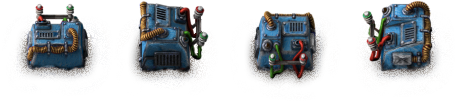
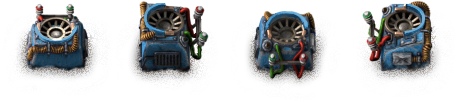
graphics update

diff --git a/README.md b/README.md
@@ -19,7 +19,7 @@
 | 实体 | 待建的实体虚影 | 被标记拆除的实体 |
 | 地格 | 待铺的地形虚影 | 被标记拆除的地格 |
 | 升级 | 升级后的目标实体 | 升级替换下的原实体 |
-| 物品 | 请求送入的物品 | 被拆除实体内部已有的物品（含插件）、回收储物格请求（移除物品）、环境实体（树/鱼/岩石等）的回收产物、落地物品 |
+| 物品 | 请求送入的物品 | 被拆除实体内部已有的物品、回收储物格请求、环境实体（树/鱼/岩石等）的回收产物、落地物品 |
 
 > **关于「物品」的说明**：这里的【物品】指的是在**实体上的储物格**进行**幽灵操作**（远程视图里直接设置）时产生的物品请求，由**建设机器人**响应。它**不是**指物流机器人响应的物品物流请求。
 
@@ -62,7 +62,7 @@
 - **物流网络模式**下，读取器自身必须位于某个无人机平台的**供应区域**（橙色区域）内，才能被判定为「属于某个物流网络」。
 - 属于**中立/敌方阵营**的目标（树、岩石、落地物品、虫巢等）本身不会有物流网络，它们按位置计入覆盖到它们的玩家阵营物流网络；而玩家阵营的实体只按自己阵营的建设区域计算。
 - 移动实体（如：坦克、蜘蛛机甲）上的物品请求同样会被计入。
-- 若某个容器实体（如箱子）被标记拆除，它**内部已有的物品和插件**会归类到「物品」类别记为回收，同时其上的临时物品请求会作废（不重复计数）。
+- 若某个容器实体（如箱子）被标记拆除，它**内部已有的物品**会归类到「物品」类别记为回收。
 
 ---
 
@@ -72,12 +72,12 @@
 
 ## 结构总览
 
-- **data.lua** —— 声明新实体。基于原版恒压器（constant-combinator）原型复制出一个同名自定义实体，并把它内部的贴图引用重定向到本 Mod 自带的图形资源（不依赖 `__base__`），同时注册对应的物品、配方和科技。
+- **data.lua** —— 声明新实体。基于原版恒压器（constant-combinator）原型复制出一个同名自定义实体，并把它内部的贴图引用重定向到本 Mod 自带的图形资源（不依赖 `__base__`）；同时复制出自己的一份残骸（corpse）原型 `ghost-reader-remnants` 并用 `corpse` 字段绑定到实体上，最后注册对应的物品、配方和科技。
 - **data-updates.lua** —— 为读取「物品请求」做铺垫。它给原版的 item-request-proxy 原型挂上一个创建效果，使该实体每次被创建时都能向脚本发送一个事件。
 - **control.lua** —— **入口文件**：按依赖顺序 require `dop2/` 下的各模块，注入跨模块依赖，最后调用 `events.register()` 完成事件注册。
 - **dop2/** —— 全部运行时逻辑，按职责拆成 14 个模块（见「文件结构」）。
 
-> `dop/` 目录是重构前的旧实现，仅作备份保留，当前不参与运行；想切回旧版把 `control_dop.lua` 的内容复制进 `control.lua` 即可。
+> `dop/` 目录是重构前的旧实现，仅作备份保留，当前不参与运行。
 
 ## 模块划分（dop2/）
 
@@ -167,13 +167,15 @@ Mod 优先事件驱动，而非每帧轮询：
 - 快照有每帧预算与活跃/不活跃世代，稳态开销与快照总数无关。
 - 面板刷新有指纹门，信号不变时不产生 GUI 元素增删。
 
-## 两份实现容易踩的坑（记录备查）
+## 实现容易踩的坑（记录备查）
 
 - **不要把原型对象当表键**：`prototypes.item["iron-plate"]` 每次调用返回的是**不同 userdata**（`a == b` 为真是靠引擎的 `__eq`，而 Lua 表键只看原始身份、不走 `__eq`），用它当键会让同一个物品永远合不到一起（多堆同类物品只剩一堆的数量）。所以计数表/计数项的键一律用**名字字符串**，`counter.lua` 收到非字符串会直接报错，`ensure_quality` 只接受品质名。
 - **2.x 的对象方法是从对象上取出的绑定闭包**：所以全项目写 `parent.add{...}`、`bp.set_stack{...}`（点号，不带 self）。用 `pcall(obj.method, obj, {...})` 多传一个 self 会报 `Expected 1 argument but 2 were given`。
 - **`require` 只能在解析 control.lua 期间调用**，运行期调用会报 `Require can't be used outside of control.lua parsing`。`meta` 与 `snapshot` 互相依赖，因此由入口在两者加载完后调用 `meta.inject_snapshot(snapshot)` 注入，而不是在函数里延迟 require。
 - **`LuaLogisticSection.filters_count` 是「当前已有多少个过滤器」，不是插槽容量**（清空后恒为 0）；常量箱 section 的插槽上限是 1000，越界 `set_slot` 会直接报错。
 - **bplib 事件里的坐标是它内部的数组形式 `{x, y}`**（类型注解写的是 `MapPosition`，容易踩），两种形式都要认。
+- **实体残骸的绑定字段是 `corpse`，不是 `corpses`**：`corpse` 是数据阶段的 `EntityWithHealthPrototype` 字段（可给一个 EntityID 或一组），而 `corpses` 是运行期 `LuaEntity` 上的**只读属性**（以尸体原型名为索引的字典）。数据阶段写 `corpses = "..."` 不会报错，但也不会绑定任何东西——复制来的实体于是继续沿用被复制者的原版尸体。
+- **残骸贴图不在 `graphics/entity/combinator/` 根下**：原版恒压器残骸是 `graphics/entity/combinator/remnants/constant/constant-combinator-remnants.png`。重定向时若只按 `combinator/constant-combinator*` 匹配会漏掉它；但也不能无脑把整个 `combinator/` 目录都指向本 Mod——同一目录里还有各运算器共用的 `combinators-reflection.png`（水面倒影），本 Mod 并没有复制它，必须让它继续指向 `__base__`。所以匹配条件是「在 `__base__/graphics/entity/combinator/` 下 **且** 路径含 `constant-combinator`」。
 
 ## 文件结构
 
